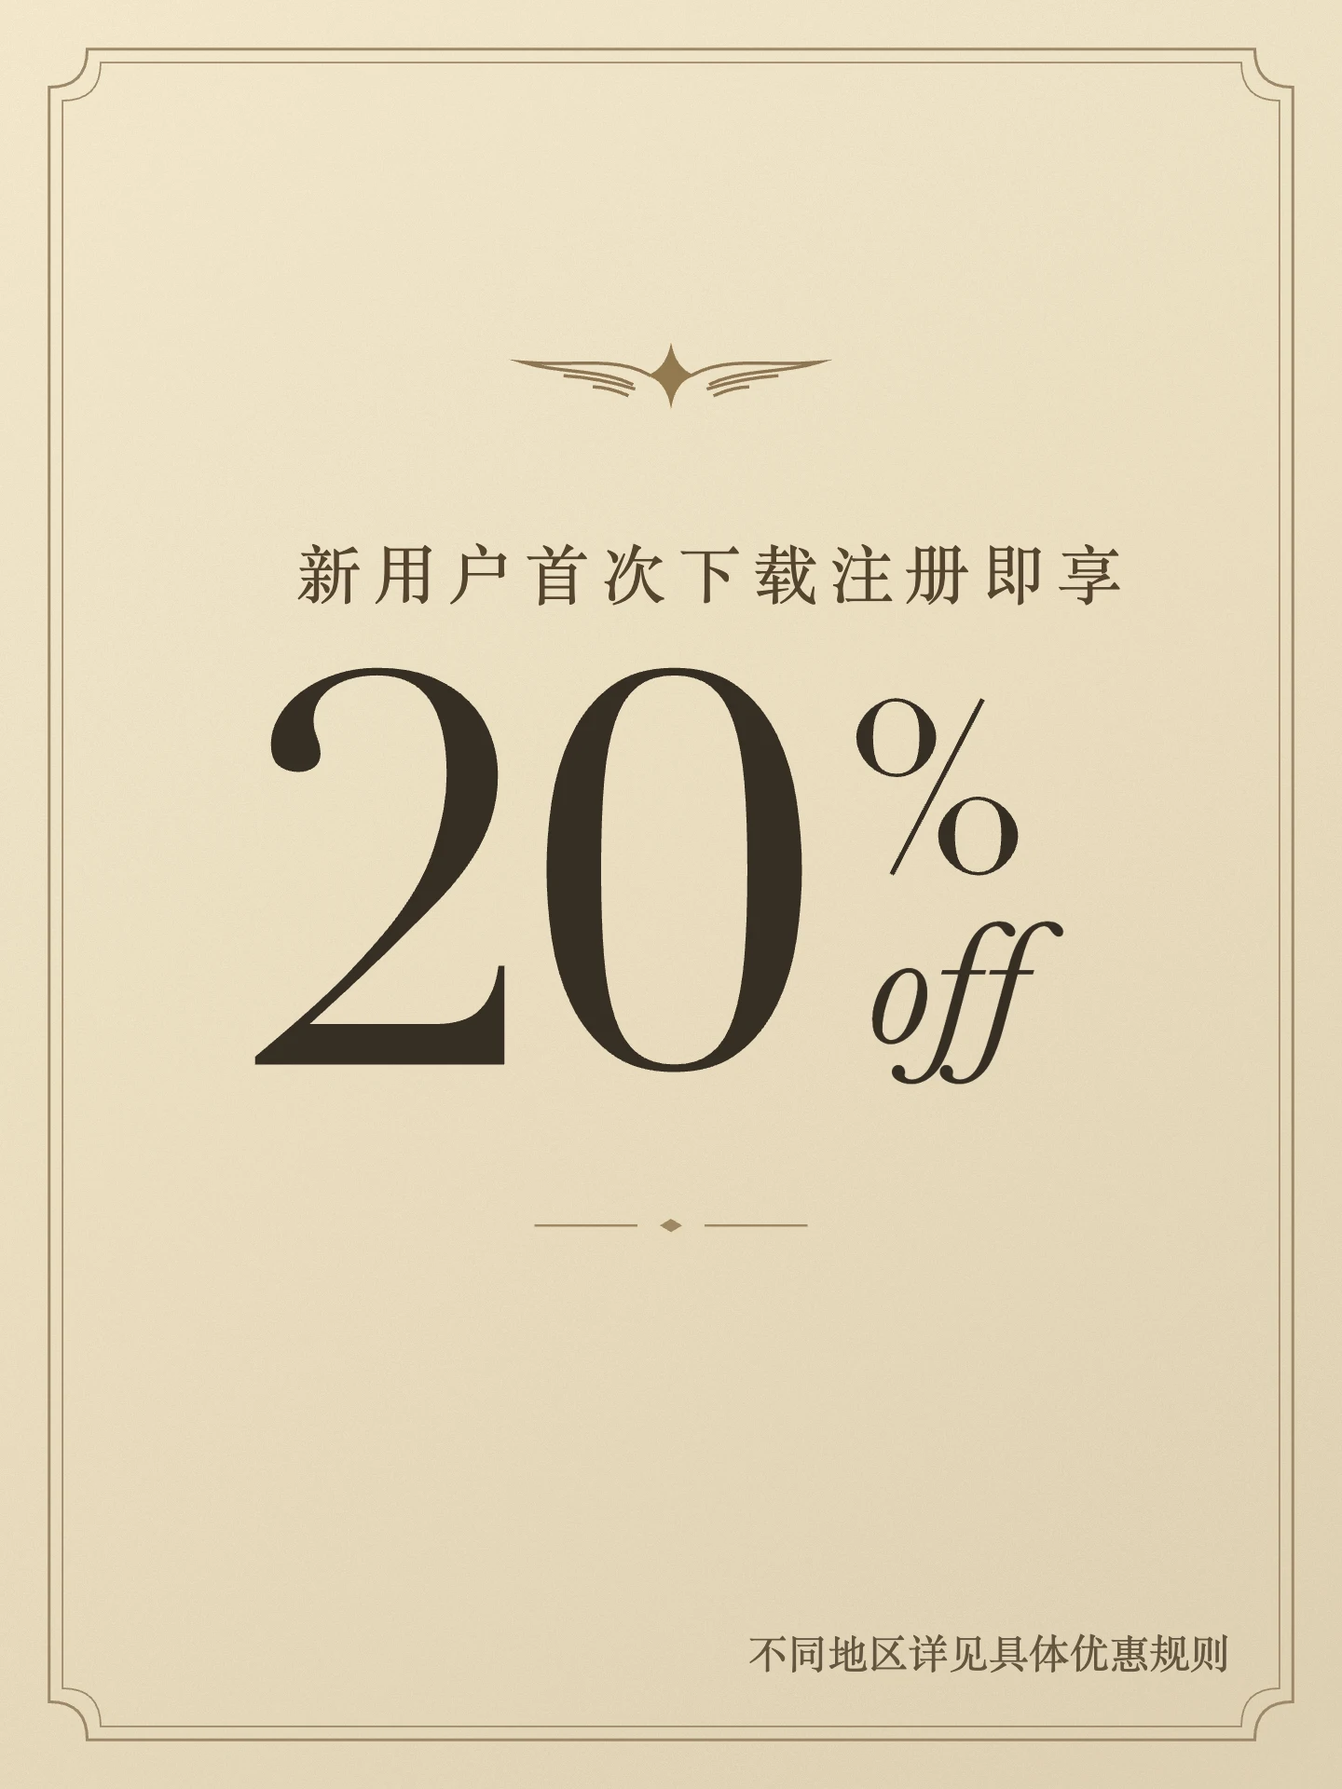
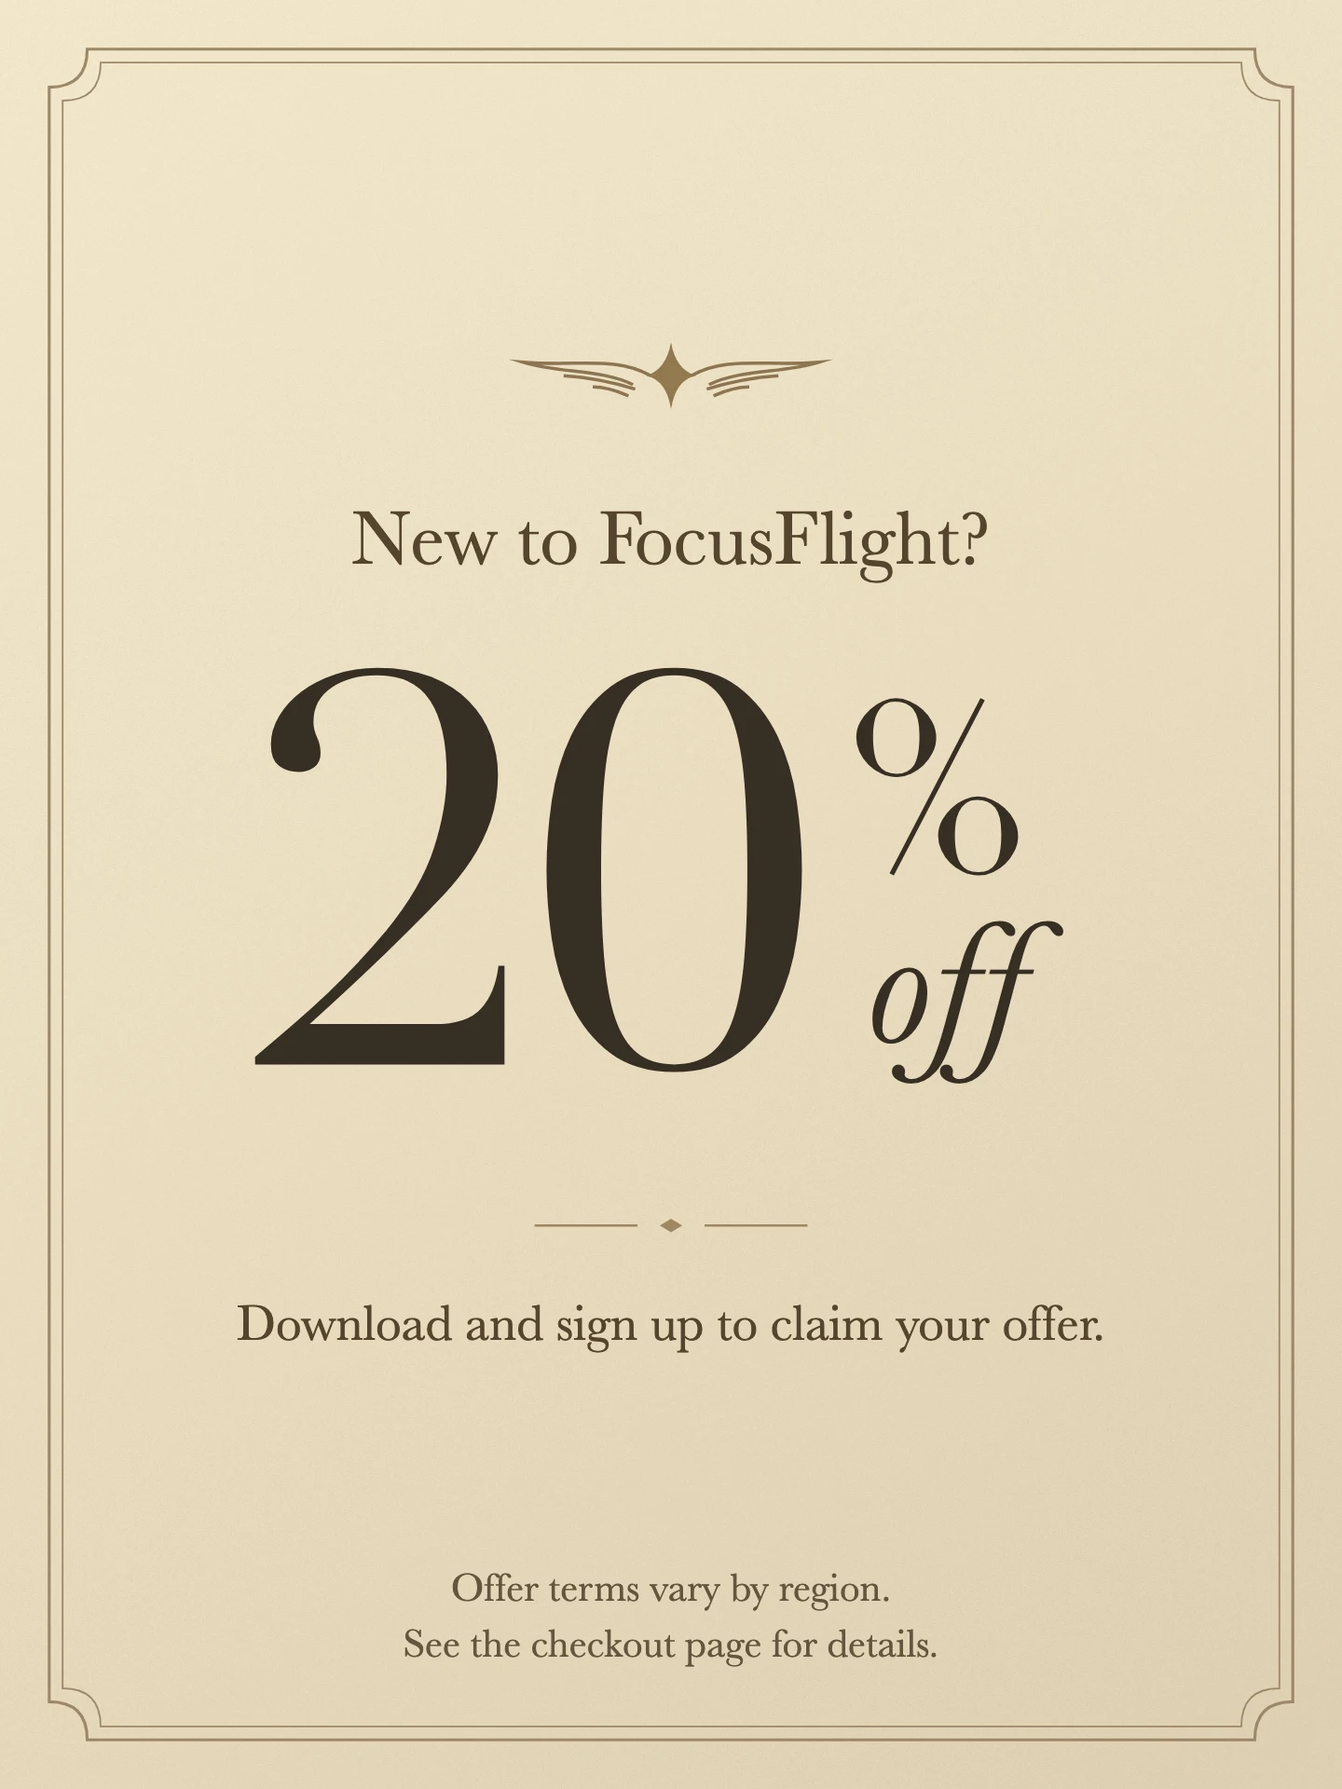
feat: 英文化活动卡与文案并调整下载页

diff --git a/index.html b/index.html
@@ -374,11 +374,11 @@
   <link rel="stylesheet" href="/showcase.css?v=aqua-tone-release">
   <link rel="stylesheet" href="/button-motion.css?v=white-header-aqua">
   <script src="/button-motion.js?v=aqua-nav" type="module"></script>
-  <link rel="stylesheet" href="/deep-focus.css?v=static-porthole">
-  <link rel="stylesheet" href="/download.css?v=static-porthole">
-  <link rel="stylesheet" href="/gift.css?v=reader-scroll">
+  <link rel="stylesheet" href="/deep-focus.css?v=short-landscape">
+  <link rel="stylesheet" href="/download.css?v=download-count">
+  <link rel="stylesheet" href="/gift.css?v=english-cards">
   <link rel="stylesheet" href="/mobile.css" media="(max-width: 520px)">
-  <script src="/sky.js?v=first-frame" type="module"></script>
+  <script src="/sky.js?v=english-cards" type="module"></script>
   <script src="/showcase.js?v=front-index" type="module"></script>
 </head>
 <body>
@@ -622,7 +622,7 @@
       <div class="focus-copy" data-copy-motion="soft-type">
         <h2 id="deep-focus-title">Deep Focus</h2>
         <div class="focus-description">
-          <p>Every session is a <strong>full flight</strong> from takeoff to touchdown. Climb above the noise, <strong>stay locked in,</strong> and land on schedule.</p>
+          <p>Turn down the world, turn up your mind. FocusFlight blocks distractions, plays your focus sounds, and keeps you locked in until it's time to land.</p>
         </div>
       </div>
     </section>
@@ -643,7 +643,7 @@
           <img loading="lazy" decoding="async" class="sketch-star star-high" src="/download-devices/wax-star.webp" alt="" width="128" height="127">
         </div>
         <div class="download-copy">
-          <span class="download-label">2.5M+ Downloads</span>
+          <span class="download-label">Fly into focus today!</span>
           <h2 id="download-title">FocusFlight</h2>
           <p>For iPhone, iPad, and Mac.</p>
           <div class="download-awards">
@@ -658,18 +658,15 @@
               <img src="/brand/download-on-the-mac-app-store.svg" alt="Download FocusFlight on the Mac App Store" width="156" height="40">
             </a>
           </div>
-        </div>
-        <div class="download-annotation">
-          <img loading="lazy" decoding="async" class="download-lettering" src="/download-devices/crayon-lettering.png?v=bold" alt="Fly into Focus Today." width="744" height="372">
-          <img loading="lazy" decoding="async" class="download-arrow" src="/download-devices/crayon-arrow.png?v=bold" alt="" width="504" height="504">
+          <p class="download-count">2.5M+ Downloads</p>
         </div>
       </div>
     </section>
     <section class="gift" id="gift" aria-label="Gift" tabindex="-1">
       <div class="gift-night">
-        <picture class="gift-studio" lang="zh-CN">
-          <source media="(max-aspect-ratio: 4/5)" srcset="/gift/studio-portrait.webp?v=lit-cards" width="828" height="1792">
-          <img src="/gift/studio.webp?v=lit-cards" alt="叠放着三张活动卡的信封" width="1920" height="1200" decoding="async" loading="lazy">
+        <picture class="gift-studio">
+          <source media="(max-aspect-ratio: 4/5)" srcset="/gift/studio-portrait.webp?v=english-cards" width="828" height="1792">
+          <img src="/gift/studio.webp?v=english-cards" alt="An envelope with three offer cards" width="1920" height="1200" decoding="async" loading="lazy">
         </picture>
         <div class="gift-letter-poster" aria-hidden="true"></div>
         <picture class="runway-poster" aria-hidden="true">
@@ -679,33 +676,33 @@
         <canvas class="gift-camera" aria-hidden="true"></canvas>
       </div>
     </section>
-    <section class="gift-letter" id="letter" lang="zh-CN" aria-labelledby="welcome-title" tabindex="-1" inert>
-      <button class="gift-print welcome-print" type="button" aria-haspopup="dialog" aria-controls="gift-reader" aria-label="放大新用户礼遇"></button>
+    <section class="gift-letter" id="letter" aria-labelledby="welcome-title" tabindex="-1" inert>
+      <button class="gift-print welcome-print" type="button" aria-haspopup="dialog" aria-controls="gift-reader" aria-label="Enlarge the welcome offer card"></button>
       <div class="gift-copy">
-        <h2 id="welcome-title">新用户礼遇</h2>
-        <p>首次下载并注册，即享 8 折优惠。</p>
-        <p class="gift-details">具体优惠以所在地区的活动规则为准。</p>
+        <h2 id="welcome-title">Welcome Offer</h2>
+        <p>New to FocusFlight? Get 20% off after you download and sign up.</p>
+        <p class="gift-details">Offer terms vary by region — see the checkout page for details.</p>
       </div>
     </section>
-    <section class="gift-letter" id="black-week" lang="zh-CN" aria-labelledby="black-week-title" tabindex="-1" inert>
-      <button class="gift-print black-week-print" type="button" aria-haspopup="dialog" aria-controls="gift-reader" aria-label="放大黑五飞行周"></button>
+    <section class="gift-letter" id="black-week" aria-labelledby="black-week-title" tabindex="-1" inert>
+      <button class="gift-print black-week-print" type="button" aria-haspopup="dialog" aria-controls="gift-reader" aria-label="Enlarge the Black Week Flight card"></button>
       <div class="gift-copy">
-        <h2 id="black-week-title">黑五飞行周</h2>
-        <p>活动期间，年付会员 5 折，永久会员 7 折。</p>
-        <p class="gift-details">11 月 27 日 00:00 至 12 月 3 日 23:59</p>
+        <h2 id="black-week-title">Black Week Flight</h2>
+        <p>Get 50% off annual membership and 30% off lifetime membership.</p>
+        <p class="gift-details">November 27 at 00:00 through December 3 at 23:59</p>
       </div>
     </section>
-    <section class="gift-letter" id="sharing" lang="zh-CN" aria-labelledby="sharing-title" tabindex="-1" inert>
-      <button class="gift-print sharing-print" type="button" aria-haspopup="dialog" aria-controls="gift-reader" aria-label="放大分享专注时刻"></button>
+    <section class="gift-letter" id="sharing" aria-labelledby="sharing-title" tabindex="-1" inert>
+      <button class="gift-print sharing-print" type="button" aria-haspopup="dialog" aria-controls="gift-reader" aria-label="Enlarge the Share Your Focus card"></button>
       <div class="gift-copy">
-        <h2 id="sharing-title">分享你的专注时刻</h2>
-        <p>在任意公开平台分享你的 FocusFlight 专注体验，带上这两个话题，就有机会赢取最多 365 天会员。</p>
+        <h2 id="sharing-title">Share Your Focus</h2>
+        <p>Share your focus experience to win up to 365 days of membership: post with both hashtags — 10 likes = 30 days, 50 likes = 90 days, 100 likes = 365 days. Submit to <a href="mailto:contact@focus.flights">contact@focus.flights</a>.</p>
         <p class="gift-details"><span>#FocusFlight</span> <span>#FocusFlightChallenge</span></p>
       </div>
     </section>
-    <dialog class="gift-reader" id="gift-reader" lang="zh-CN" aria-label="活动卡详情">
+    <dialog class="gift-reader" id="gift-reader" aria-label="Offer card details">
       <div class="gift-print" role="img"></div>
-      <button type="button" aria-label="关闭">×</button>
+      <button type="button" aria-label="Close">×</button>
     </dialog>
     <section id="runway" class="runway" lang="en" data-copy-motion="soft-type" tabindex="-1" aria-label="Affiliate and partnerships">
       <div class="runway-copy" inert>
@@ -744,7 +741,7 @@
         </nav>
         <small class="site-footer-copyright">© 2026 CementPlanet Ltd.</small>
         <nav class="site-footer-social" aria-label="Social media">
-          <a href="https://www.xiaohongshu.com/user/profile/608c251a0000000001004a0d" aria-label="小红书" lang="zh-CN" target="_blank" rel="noopener">
+          <a href="https://www.xiaohongshu.com/user/profile/608c251a0000000001004a0d" aria-label="Xiaohongshu" target="_blank" rel="noopener">
             <span class="site-footer-icon icon-xiaohongshu" aria-hidden="true"></span>
           </a>
           <a href="https://www.instagram.com/focusflight_app/" aria-label="Instagram" target="_blank" rel="noopener">

diff --git a/gift.css b/gift.css
@@ -50,12 +50,12 @@
 @media (prefers-reduced-motion: no-preference) {
   [data-gift-descent] :is(.download-copy h2, .star-rise, .star-east, .sketch-cloud, .sketch-mac) { --lag: var(--gift-lag-0); }
   [data-gift-descent] :is(.download-copy p, .sketch-iphone, .star-west) { --lag: var(--gift-lag-1); }
-  [data-gift-descent] :is(.download-awards img, .download-annotation, .sketch-ipad, .star-south) { --lag: var(--gift-lag-2); }
+  [data-gift-descent] :is(.download-awards img, .sketch-ipad, .star-south) { --lag: var(--gift-lag-2); }
   [data-gift-descent] :is(.download-copy .hero-actions a, .sketch-plane) { --lag: var(--gift-lag-3); }
   [data-gift-descent] :is(.download-label, .download-copy h2, .download-copy p) { translate: 0 var(--lag, 0px); }
   /* Blur each line once. Stagger only opacity and vertical travel per glyph. */
   [data-gift-descent] :is(.download-label, .download-copy h2, .download-copy p,
-      .download-awards img, .download-copy .hero-actions a, .download-sketches img, .download-annotation) {
+      .download-awards img, .download-copy .hero-actions a, .download-sketches img) {
     --exit: clamp(0, (var(--gift-exit, 0) - var(--cue, 0) * .35) / .76, 1);
     --soft: calc(var(--exit) * var(--exit) * (3 - 2 * var(--exit)));
   }
@@ -68,7 +68,7 @@
     opacity: calc(1 - var(--fade) * var(--fade) * (3 - 2 * var(--fade)));
     translate: 0 calc(-.14em * var(--soft));
   }
-  [data-gift-descent] :is(.download-sketches img, .download-annotation, .download-awards img, .download-copy .hero-actions a) {
+  [data-gift-descent] :is(.download-sketches img, .download-awards img, .download-copy .hero-actions a) {
     filter: blur(calc(var(--defocus, 5px) * var(--soft)));
     opacity: calc(var(--ink, 1) * (1 - var(--soft)));
     translate: var(--anchor, 0px) calc(var(--anchor, 0px) + var(--lag, 0px) - 9px * var(--soft));
@@ -122,6 +122,7 @@
   line-height: 1.65;
   text-wrap: pretty;
 }
+.gift-copy a { color: inherit; }
 .gift-copy .gift-details {
   margin-top: .85em;
   color: #aeb7c4;
@@ -132,7 +133,7 @@
 .gift-details span + span { margin-inline-start: .45em; }
 @media (max-width: 620px) and (orientation: portrait) {
   .gift-letter {
-    --print-width: min(59vw, 260px, calc((var(--gift-space) - 144px) * .75));
+    --print-width: min(59vw, 260px, calc((var(--gift-space) - var(--gift-copy-space, 144px)) * .75));
     grid-template-columns: minmax(0, 24rem);
     grid-template-rows: auto auto;
     align-content: center;
@@ -140,13 +141,14 @@
     gap: clamp(14px, 2.6dvh, 24px);
     text-align: center;
   }
+  #sharing { --gift-copy-space: 230px; }
   .gift-copy h2 { font-size: clamp(25px, 6.2vw, 32px); }
 }
 .gift-print {
   width: var(--print-width);
   aspect-ratio: 3 / 4;
   border-radius: 2.4% / 1.8%;
-  background-image: url("gift/invitation.webp?v=lit-cards");
+  background-image: url("gift/invitation.webp?v=english-cards");
   background-size: 304.7619% 228.5714%;
   background-repeat: no-repeat;
   background-position: var(--print-x) .347222%;
@@ -162,7 +164,7 @@
   transition: opacity 180ms var(--button-press);
 }
 [data-welcome-print-ready] .welcome-print::after {
-  background: url("gift/welcome-print.webp") center / cover no-repeat;
+  background: url("gift/welcome-print.webp?v=english-cards") center / cover no-repeat;
   opacity: 1;
 }
 .black-week-print { --print-x: 50%; }

diff --git a/download.css b/download.css
@@ -101,6 +101,11 @@
 }
 .download-copy .hero-actions { margin-top: clamp(18px, 2.8dvh, 34px); }
 .download-copy .hero-actions img { width: auto; }
+.download-copy .download-count {
+  margin-top: clamp(8px, 1.5dvh, 16px);
+  color: #c9daec;
+  font-size: clamp(13px, 1.15vw, 17px);
+}
 
 /* Keep the sky and download content in their final viewport throughout the flight. */
 [data-window-flight] .deep-focus { translate: 0 var(--cabin-offset); }
@@ -124,28 +129,6 @@
     --badge-height: clamp(34px, 10dvh, 44px);
     margin-top: 10px;
   }
-}
-
-.download-annotation {
-  position: absolute;
-  inset: 0;
-  pointer-events: none;
-  user-select: none;
-}
-.download-annotation img { position: absolute; }
-.download-lettering {
-  left: 10.5%;
-  top: 69%;
-  width: clamp(120px, 16vw, 248px);
-  height: auto;
-  rotate: -5deg;
-}
-.download-arrow {
-  left: 25.4%;
-  top: 62%;
-  width: clamp(64px, 6.4vw, 104px);
-  height: clamp(62px, 11dvh, 100px);
-  opacity: .9;
 }
 
 .download-sketches {
@@ -205,11 +188,11 @@
   .star-west { --cue: .34; }
   .download-awards img { --cue: .38; }
   .download-awards img + img { --cue: .415; }
-  .download-annotation { --cue: .425; }
   .sketch-ipad { --cue: .445; }
   .sketch-plane { --cue: .475; }
   .download-copy .hero-actions a { --cue: .50; }
   .download-copy .hero-actions a + a { --cue: .535; }
+  .download-copy .download-count { --cue: .55; }
   .star-south { --cue: .56; }
 
   .download-sketches img {
@@ -223,7 +206,7 @@
     --defocus: 4px;
     --ink: .91;
   }
-  [data-window-flight] :is(.download-sketches img, .download-annotation, .download-label, .download-copy h2,
+  [data-window-flight] :is(.download-sketches img, .download-label, .download-copy h2,
       .download-copy p, .download-awards img, .download-copy .hero-actions a) {
     --p: clamp(0, (var(--download-arrival, 0) - var(--cue)) / .44, 1);
     --rest: calc((1 - var(--p)) * (1 - var(--p)));
@@ -255,21 +238,6 @@
 @media (max-width: 700px) and (orientation: portrait) {
   .download-layout { grid-template-rows: 1fr auto 1fr; }
   .download-copy { grid-row: 2; }
-  .download-annotation { grid-row: 3 / 4; }
-  .download-lettering {
-    left: 4%;
-    top: 48%;
-    width: clamp(104px, 33vw, 190px);
-    transform: translateY(-50%);
-  }
-  .download-arrow {
-    left: 35.5%;
-    top: 40%;
-    width: clamp(38px, 11vw, 65px);
-    height: min(38%, 56px);
-    transform: translateY(-40%);
-    rotate: -27deg;
-  }
   /* Anchor drawings in the free rows above and below the actual copy. */
   .download-sketches img { grid-row: 1 / 2; --y: calc(50% + (var(--header-top) + var(--header-height)) / 2); }
   .download-sketches :is(.sketch-ipad, .sketch-plane, .star-west, .star-south) { grid-row: 3 / 4; --y: 47%; }
@@ -288,8 +256,6 @@
   .download-sketches .star-south { margin-top: 14px; }
 }
 @media (max-height: 520px) and (orientation: landscape) {
-  .download-lettering { left: 8%; top: 73%; width: clamp(85px, 16vw, 150px); }
-  .download-arrow { left: 22.5%; top: 58%; height: 17%; }
   .sketch-mac { --x: 14%; --y: 58%; --size: min(14vw, 30dvh); }
   .sketch-iphone { --x: 82%; --y: 40%; --size: min(5.3vw, 10dvh); }
   .sketch-ipad { --x: 86%; --y: 78%; --size: min(12vw, 23dvh); }

diff --git a/terms/index.html b/terms/index.html
@@ -1,4 +1,4 @@
-<html><head><meta http-equiv="Content-Type" content="text/html; charset=utf-8"/><title>User Agreement</title>
+<html lang="en"><head><meta http-equiv="Content-Type" content="text/html; charset=utf-8"/><title>User Agreement</title>
 <meta name="viewport" content="width=device-width, initial-scale=1">
 <link rel="stylesheet" href="/legal.css">
 <link rel="stylesheet" href="/legal-layout.css"></head><body><article id="17c1e8f6-06dd-80e8-b951-f9195b095933" class="page sans"><header><h1 class="page-title"><strong>User Agreement</strong></h1><p class="page-description"></p></header><div class="page-body"><p id="17c1e8f6-06dd-80bf-84da-ca7648457950" class=""><strong>Effective Date:</strong> Jan 15, 2025</p><p id="17c1e8f6-06dd-8088-907c-c5a63b0198fe" class="">Welcome to FocusFlight! Please read this User Agreement carefully before using the app. This agreement constitutes a legal contract between you and FocusFlight.</p><p id="17c1e8f6-06dd-8041-bc29-dbb3ec7f8b9e" class=""><strong>1. Service Description</strong></p><p id="17c1e8f6-06dd-801c-91c7-ccb28cbfa58b" class="">FocusFlight is a focus management app designed to help users improve their concentration by simulating a flight experience. By using this app, you agree to comply with this agreement and relevant laws and regulations.</p><p id="17c1e8f6-06dd-805a-92e5-f903325997f0" class="">

diff --git a/privacy/index.html b/privacy/index.html
@@ -1,4 +1,4 @@
-<html><head><meta http-equiv="Content-Type" content="text/html; charset=utf-8"/><title>FocusFlight Privacy Policy</title>
+<html lang="en"><head><meta http-equiv="Content-Type" content="text/html; charset=utf-8"/><title>FocusFlight Privacy Policy</title>
 <meta name="viewport" content="width=device-width, initial-scale=1">
 <link rel="stylesheet" href="/legal.css">
 <link rel="stylesheet" href="/legal-layout.css"></head><body><article id="17c1e8f6-06dd-80d4-a74a-d4303beda5fd" class="page sans"><header><h1 class="page-title"><strong>FocusFlight Privacy Policy</strong></h1><p class="page-description"></p></header><div class="page-body"><p id="17c1e8f6-06dd-8041-887d-f32998df6fec" class=""><strong>Effective Date:</strong> Jan 15, 2025</p><p id="17c1e8f6-06dd-80dd-b58b-cf54cf8ce89f" class="">FocusFlight highly values the protection of your privacy. We are committed to ensuring the security of your personal information and strictly adhere to relevant laws and regulations. This Privacy Policy explains how we collect, use, store, and protect your personal information.</p><p id="17c1e8f6-06dd-8015-9673-e51c20965001" class="">

diff --git a/gift.js b/gift.js
@@ -1,4 +1,4 @@
-import { setupStudio, framingOffset } from "./gift/camera.js?v=letter-handoff";
+import { setupStudio, framingOffset } from "./gift/camera.js?v=english-cards";
 import { prepareCopy } from "./motion-copy.js";
 
 export function setupGiftDescent(download, gift, slides, runway, windowFlight, ease, cameraTravel) {
@@ -29,7 +29,7 @@ export function setupGiftDescent(download, gift, slides, runway, windowFlight, e
   const welcomePrint = new Image();
   function prepareWelcomePrint() {
     if (welcomePrint.hasAttribute("src")) return;
-    welcomePrint.src = new URL("./gift/welcome-print.webp", import.meta.url);
+    welcomePrint.src = new URL("./gift/welcome-print.webp?v=english-cards", import.meta.url);
     void welcomePrint.decode().then(() => {
       sequence.setAttribute("data-welcome-print-ready", "");
     }).catch(() => { /* Keep the existing atlas if the print is unavailable. */ });

diff --git a/gift/camera.js b/gift/camera.js
@@ -160,7 +160,7 @@ function cameraPose(t) {
 
 async function prepare(gl, letterIsRising, isCurrent) {
   const [invitation,floor,plane,runwaySource]=await Promise.all([
-    readImage("invitation.webp?v=lit-cards"),readImage("graphite.webp"),
+    readImage("invitation.webp?v=english-cards"),readImage("graphite.webp"),
     readImage("../aircraft/deep-focus-front.webp"),
     fetch(new URL("./runway.glsl?v=ignition",import.meta.url)).then(response=>{
       if (!response.ok) throw Error("Runway lighting could not load");

diff --git a/deep-focus.css b/deep-focus.css
@@ -206,6 +206,9 @@
 @media (orientation: landscape) and (max-height: 500px) {
   .deep-focus { grid-template-columns: minmax(0, 1.2fr) minmax(0, 1fr); }
 }
+@media (orientation: landscape) and (max-height: 430px) {
+  .focus-description { font-size: min(var(--intro-font-size), 20px); }
+}
 @keyframes porthole-arrival {
   from { --window-entry: 0; }
   to { --window-entry: 1; }

diff --git a/sky.js b/sky.js
@@ -1,4 +1,4 @@
-import { setupGiftDescent } from "./gift.js?v=letter-handoff";
+import { setupGiftDescent } from "./gift.js?v=english-cards";
 import { setupWindowFlight } from "./window-flight.js?v=sky-meteor";
 import { setupPortholeSky } from "./porthole/sky.js?v=compact-noise";
 import { setupWindowShade } from "./porthole/shade.js?v=static-porthole";
